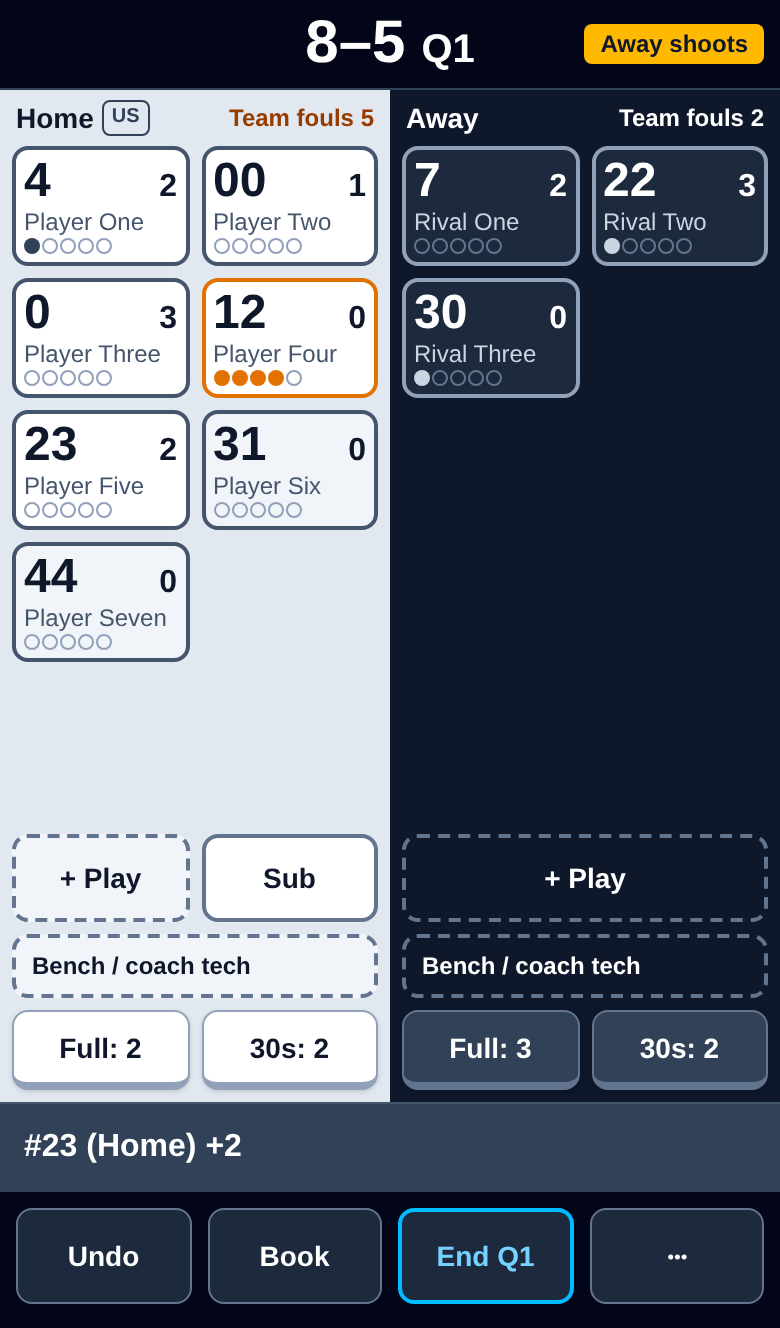
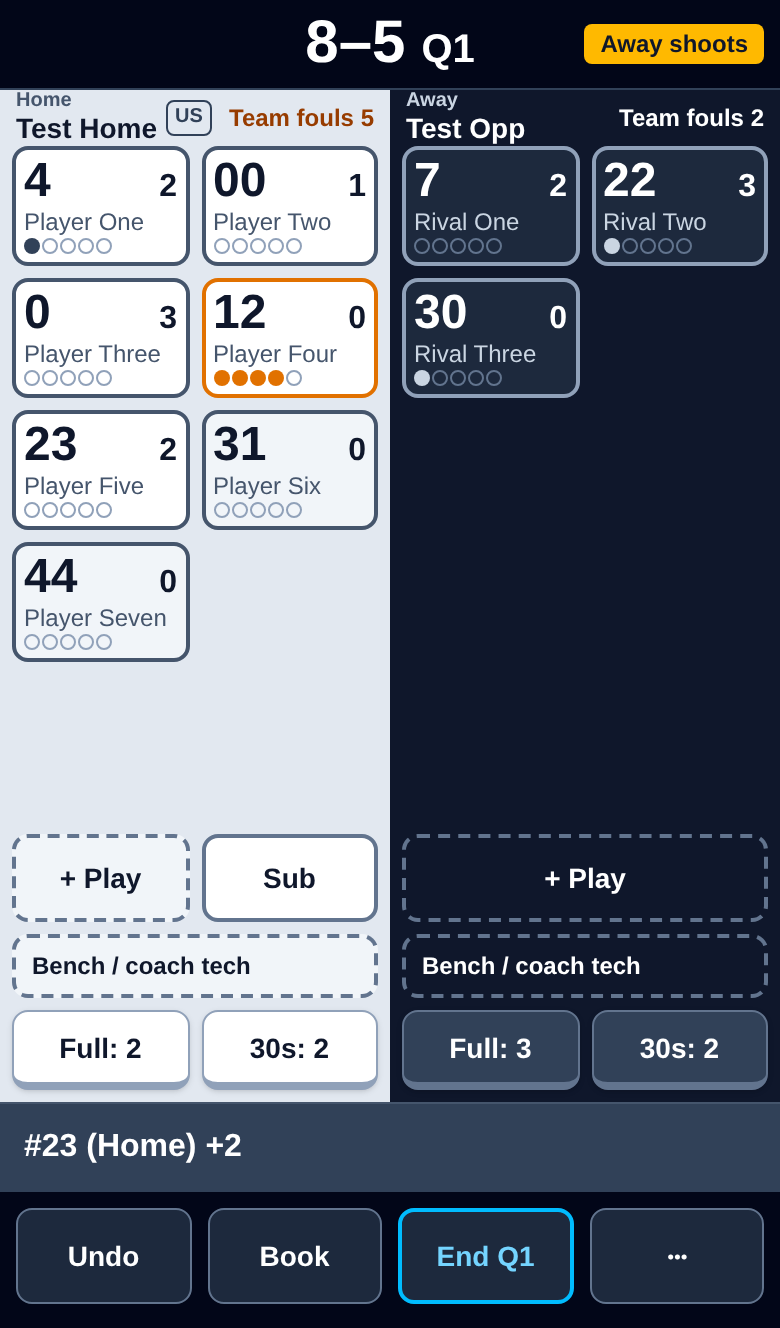
Release v0.12.0

Changed region(s): [[0.0, 0.0617, 0.2154, 0.1235], [0.5231, 0.0617, 0.6769, 0.1235], [0.2154, 0.0617, 0.2769, 0.0926]]

diff --git a/CHANGELOG.md b/CHANGELOG.md
@@ -5,6 +5,8 @@ All notable changes to Bench Book are listed here, in the
 
 ## [Unreleased]
 
+## [0.12.0] - 2026-11-23
+
 - Each half of the live screen shows that team's name when one was entered, under a small Home or Away tag; a long name is cut short so Team fouls stays in view. An opponent left blank (named for the date) still reads just Home or Away (audit 0.11.0 F3).
 
 ## [0.11.0] - 2026-11-19
